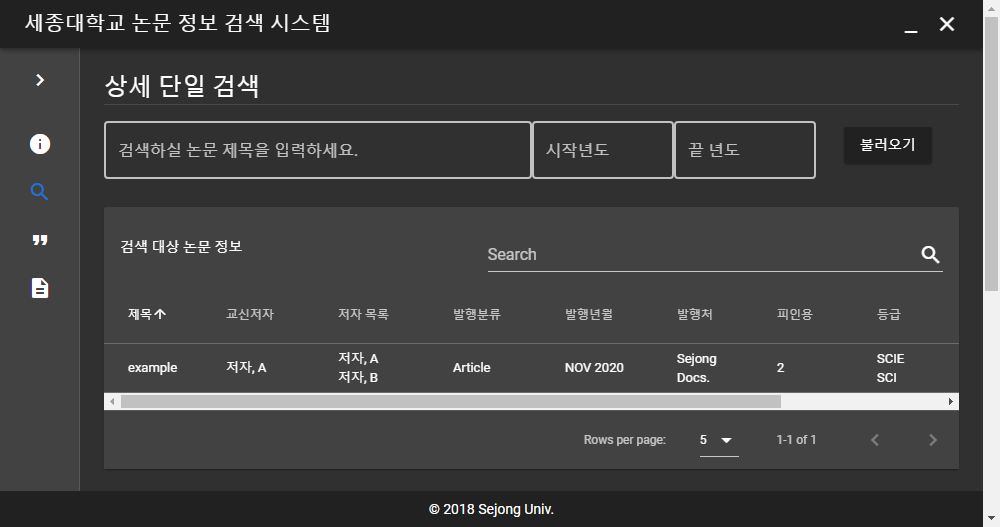
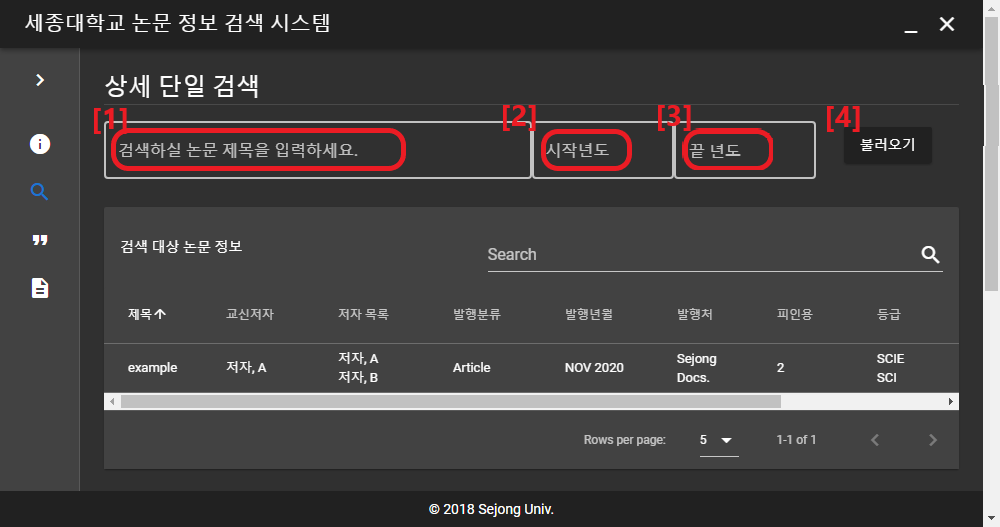
기능 주석 추가

diff --git a/src/renderer/components/WelcomeView.vue b/src/renderer/components/WelcomeView.vue
@@ -45,30 +45,45 @@
     </v-flex>
         <v-flex xs10 class="mt-3">
       <v-card>
-        <v-card-title class="headline">기능별 가이드</v-card-title>
+        <v-card-title class="headline">기능별 주석</v-card-title>
         <v-divider></v-divider>
         <v-card-text>
-          <h3 class='mb-3'>1. 상세 단일 검색</h3>
+          <h3 class='mb-3 mt-3'>1. 상세 단일 검색</h3>
           <img class='logo' src="~@/assets/guide1_1.png" alt='그림1-1'>
-          <p>
-            설명설명
-          </p>
-          <h3 class='mb-3'>2. 상세 엑셀 검색</h3>
+          <p>[1] : 검색할 논문 제목 필드 : 2자 이상</p>
+          <p>[2], [3] : 연도 - 1900 ~ 금년 사이</p>
+          <p>[4] : 검색 시작 버튼</p>
+          <img class='logo' src="~@/assets/guide1_2.png" alt='그림1-2'>
+          <p>해당 논문 행을 클릭 시 하단으로 펼쳐진 상세 정보를 볼 수 있습니다.</p>
+          <p>[5] : 해당 논문 제목</p>
+          <p>[6] : 연도별 Impact Factor - 없을 시 나타나지 않음</p>
+          <p>[7] : JCR 카테고리별 랭킹과 Quartile - 없을 시 나타나지 않음</p>
+          <p>[8] : 저자별 소속 연구기관들 - 없을 시 나타나지 않음</p>
+          <p>[9] : 저장된 파일 아이디 - 바탕화면의 '인용중인논문들' 폴더 내 저장됨</p>
+          <p>[10] : 이 논문을 인용하는 논문과 그 저자. 10개 이상이면 나타나지 않음</p>
+          <v-divider></v-divider>
+          <h3 class='mb-3 mt-3'>2. 상세 엑셀 검색</h3>
           <img class='logo' src="~@/assets/guide2_1.png" alt='그림2-1'>
-          <p>
-            설명설명
-          </p>
-          <h3 class='mb-3'>3. 일반 엑셀 검색</h3>
+          <p>[1] : 검색어의 구분 - 논문제목, DOI : 논문 하나를 특정할 수 있는 검색어</p>
+          <p>[2] : 파일 선택 - csv, xls, xlsx의 파일만 허용됨. 양식은 아래 참조</p>
+          <p>[3] : 연도 - 1900 ~ 금년 사이</p>
+          <p>[4] : 검색 시작 버튼</p>
+          <v-divider></v-divider>
+          <h3 class='mb-3 mt-3'>3. 일반 엑셀 검색</h3>
           <img class='logo' src="~@/assets/guide3_1.png" alt='그림3-1'>
+          <p>[1 ~ 4] : 상세 엑셀 검색과 상동</p>
+          <img class='logo' src="~@/assets/guide3_2.png" alt='그림3-2'>
+          <p>[5] : 해당 논문 제목</p>
+          <p>[6] : 해당 논문의 저자 목록</p>
           <p>
             설명설명
           </p>
         </v-card-text>
       </v-card>
     </v-flex>
-    <v-flex xs10 class="mt-4">
+    <!-- <v-flex xs10 class="mt-4">
       <system-information></system-information>
-    </v-flex>
+    </v-flex> -->
     <!-- <v-flex xs10 class="mt-4">
       <v-card>
         <v-card-title class="headline">Docs</v-card-title>
